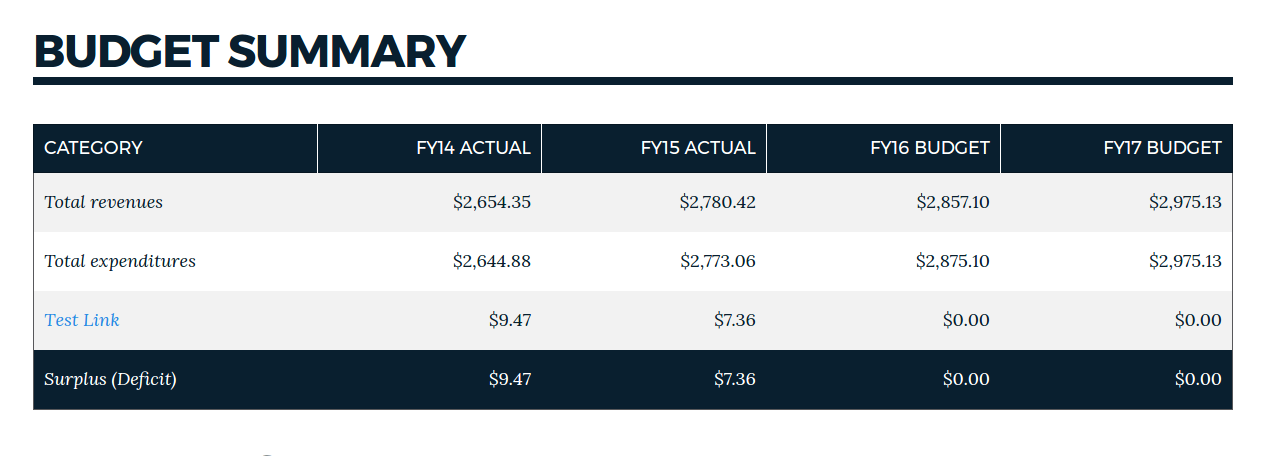
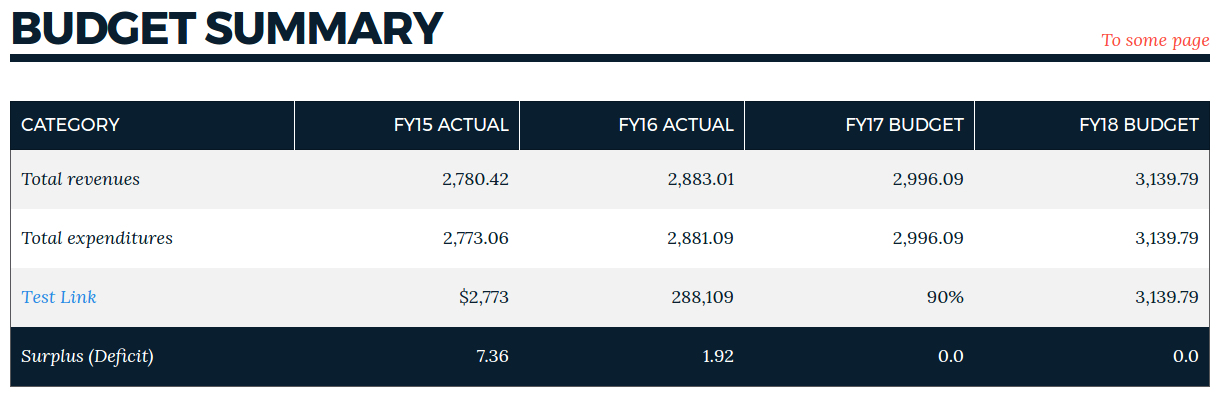
Add configurable total line for tables.

diff --git a/_includes/table.html b/_includes/table.html
@@ -21,7 +21,11 @@
   </thead>
   <tbody>
     {% for row in include.arg[0].columns %}
+      {% if row.total %}
+      <tr class="total">
+      {% else %}
       <tr>
+      {% endif %}
         {% for column in row %}
           {% if column[1].name and column[1].link %}
             <td><a href="{{ site.url }}{{ column[1].link }}">{{ column[1].name }}</a></td>
@@ -31,7 +35,7 @@
             <td>{{ column[1].value | thousands_separated }}</td>
           {% elsif column[1].filter == 'percent' %}
             <td>{{ column[1].value | append: "%" }}</td>
-          {% else %}
+          {% elsif column[0] != 'total' %}
             <td>{{ column[1] }}</td>
           {% endif %}
         {% endfor %}

diff --git a/README.md b/README.md
@@ -160,29 +160,39 @@ spanning_image:
 ```
 - table:
   - title: Budget summary
+    right_text: 
+      name: To some page
+      link: /example
     columns:
       - "Category": Total revenues
-        "FY14 Actual": $2,654.35
-        "FY15 Actual": $2,780.42
-        "FY16 Budget": $2,857.10
-        "FY17 Budget": $2,975.13
+        "FY15 Actual": 2,780.42
+        "FY16 Actual": 2,883.01
+        "FY17 Budget": 2,996.09
+        "FY18 Budget": 3,139.79
       - "Category": Total expenditures
-        "FY14 Actual": $2,644.88
-        "FY15 Actual": $2,773.06
-        "FY16 Budget": $2,875.10
-        "FY17 Budget": $2,975.13
-      - "Category":
+        "FY15 Actual": 2,773.06
+        "FY16 Actual": 2,881.09
+        "FY17 Budget": 2,996.09
+        "FY18 Budget": 3,139.79
+      - "Category": 
           name: Test Link
-          link: /path
-        "FY14 Actual": $9.47
-        "FY15 Actual": $7.36
-        "FY16 Budget": $0.00
-        "FY17 Budget": $0.00
-      - "": Surplus (Deficit)
-        "FY14 Actual": $9.47
-        "FY15 Actual": $7.36
-        "FY16 Budget": $0.00
-        "FY17 Budget": $0.00
+          link: /example
+        "FY15 Actual": 
+          value: 2773
+          filter: money
+        "FY16 Actual": 
+          value: 288109
+          filter: delimiter
+        "FY17 Budget": 
+          value: 90
+          filter: percent
+        "FY18 Budget": 3,139.79
+      - "Category": Surplus (Deficit)
+        "total": true
+        "FY15 Actual": 7.36
+        "FY16 Actual": 1.92
+        "FY17 Budget": 0.00
+        "FY18 Budget": 0.00
 ```
 
 ---

diff --git a/_source/md/fy18_recommended/operating-budget.md b/_source/md/fy18_recommended/operating-budget.md
@@ -30,17 +30,18 @@ components:
   - title: Budget summary
     right_text: (dollars in millions)
     columns:
-      - "": Total revenues
+      - "Category": Total revenues
         "FY15 Actual": 2,780.42
         "FY16 Actual": 2,883.01
         "FY17 Budget": 2,996.09
         "FY18 Budget": 3,139.79
-      - "": Total expenditures
+      - "Category": Total expenditures
         "FY15 Actual": 2,773.06
         "FY16 Actual": 2,881.09
         "FY17 Budget": 2,996.09
         "FY18 Budget": 3,139.79
-      - "": Surplus (Deficit)
+      - "Category": Surplus (Deficit)
+        "total": true
         "FY15 Actual": 7.36
         "FY16 Actual": 1.92
         "FY17 Budget": 0.00
@@ -147,6 +148,7 @@ components:
       "FY17 Budget": 4.00
       "FY18 Budget": 0.00
     - "Source": Total revenues
+      "total": true
       "FY15 Actual": 2,780.42
       "FY16 Actual": 2,883.01
       "FY17 Budget": 2,996.09
@@ -198,6 +200,7 @@ components:
       "FY17 Budget": 40.00
       "FY18 Budget": 40.00
     - "Expenditure": Total appropriations
+      "total": true
       "FY15 Actual": 2,238.97
       "FY16 Actual": 2,291.41
       "FY17 Budget": 2,372.18
@@ -252,11 +255,13 @@ components:
       "FY17 Budget": 0.00
       "FY18 Budget": 1.00
     - "Expenditure": Total fixed costs
+      "total": true
       "FY15 Actual": 534.08
       "FY16 Actual": 589.68
       "FY17 Budget": 623.91
       "FY18 Budget": 673.55
     - "Expenditure": Totals
+      "total": true
       "FY15 Actual": 2,773.06
       "FY16 Actual": 2,881.09
       "FY17 Budget": 2,996.09
